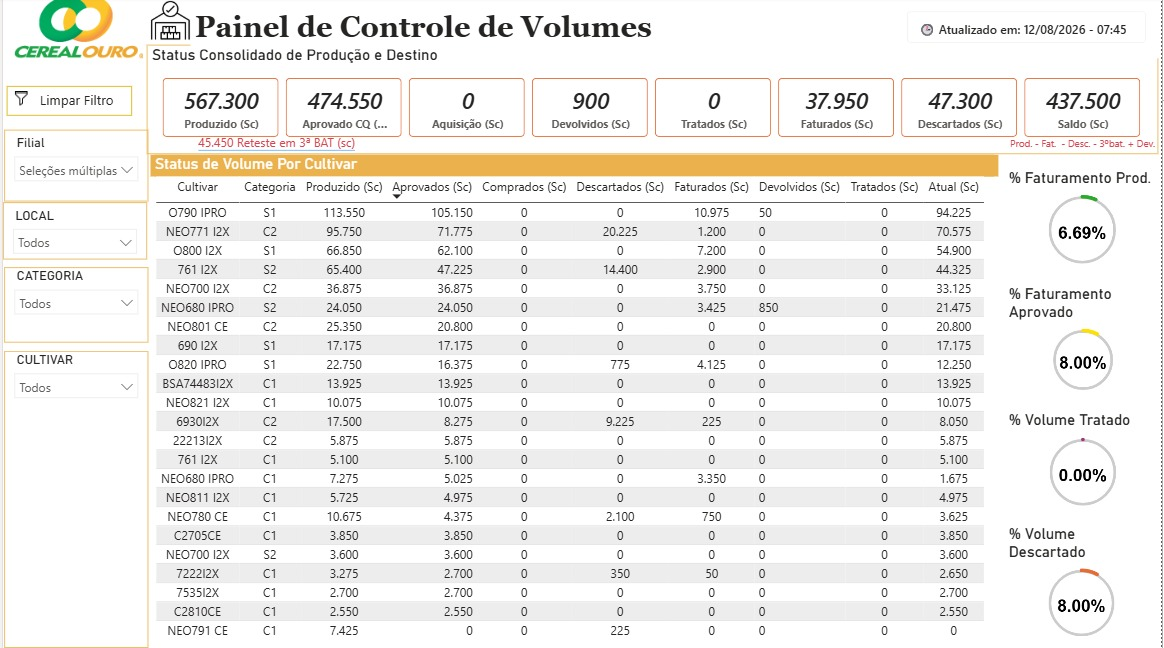
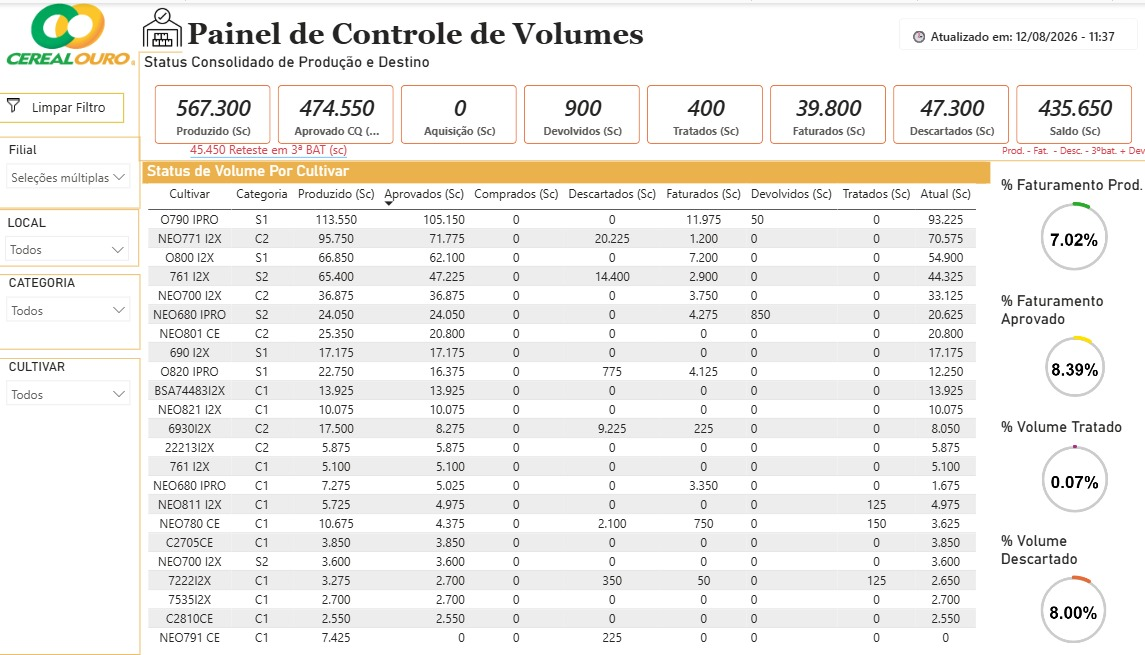
Atualização das imagens do Painel de TV

diff --git a/index.html b/index.html
@@ -1,23 +1,122 @@
-<!doctype html><html lang="pt-BR"><head><meta charset="utf-8"><meta name="viewport" content="width=device-width,initial-scale=1"><title>Painel TV v2</title><style>*{box-sizing:border-box}body{margin:0;font-family:Arial;background:#101418;color:#fff}.panel{max-width:1000px;margin:25px auto;padding:24px;background:#1b2229;border-radius:14px}input,select,button{padding:11px;border-radius:8px;border:1px solid #3a4652}input,select{background:#0f1419;color:#fff}button{background:#2e7d32;color:#fff;cursor:pointer;border:0}.secondary{background:#37474f}.item{border:1px solid #35414d;padding:12px;border-radius:10px;margin:10px 0}.row{display:grid;grid-template-columns:150px 1fr 90px 110px 80px;gap:8px}.actions{display:flex;gap:8px;flex-wrap:wrap;margin-top:15px}.small{color:#b8c2cc;font-size:13px}#viewer{display:none;position:fixed;inset:0;background:#000}#screen,#img,#video{width:100%;height:100%;border:0;display:none}#img{object-fit:contain}.exit{position:fixed;right:10px;top:10px;z-index:5;opacity:.1}@media(max-width:800px){.row{grid-template-columns:1fr 1fr}}</style></head><body>
-<div id="config" class="panel"><h1>📺 Painel de TV — v2</h1><p class="small">O link da TV é fixo. Você altera a programação aqui e salva; a TV atualiza automaticamente.</p><div id="status">Aguardando login...</div>
-<div id="login"><input id="pin" type="password" placeholder="PIN"><button onclick="login()">Entrar</button></div>
-<div id="admin" style="display:none"><div id="items"></div><div class="actions"><button onclick="add()">＋ Adicionar</button><button onclick="save()">💾 Salvar</button><button class="secondary" onclick="load()">↻ Recarregar</button><button class="secondary" onclick="copyTV()">🔗 Copiar link da TV</button><button class="secondary" onclick="openTV()">📺 Abrir TV</button></div></div></div>
-<div id="viewer"><button class="exit" onclick="location.href=location.pathname">⚙</button><iframe id="screen" allow="autoplay;fullscreen"></iframe><img id="img"><video id="video" autoplay muted playsinline></video></div>
-<script src="https://cdn.jsdelivr.net/npm/@supabase/supabase-js@2"></script><script>
-const URL_SB="https://wbejpcbuktfwprlxqjth.supabase.co",KEY="sb_publishable_5xajQWM2gMkKPLBLvKN2Hw_uauZ1pBm",PIN="Luc@s1210";let db,items=[],i=0,timer;
-const ok=()=>!URL_SB.startsWith("COLE_")&&!KEY.startsWith("COLE_");const stat=x=>document.getElementById("status").textContent=x;
-function login(){if(document.getElementById("pin").value!==PIN)return alert("PIN incorreto");document.getElementById("login").style.display="none";document.getElementById("admin").style.display="block";load()}
-function add(x={type:"url",name:"Novo item",url:"",seconds:30,active:true}){items.push(x);render()}
-function esc(x){return String(x||"").replace(/&/g,"&amp;").replace(/"/g,"&quot;").replace(/</g,"&lt;")}
-function render(){let itemsBox=document.getElementById("items");itemsBox.innerHTML="";items.forEach((x,n)=>{let d=document.createElement("div");d.className="item";d.innerHTML=`<div class="row"><input value="${esc(x.name)}" onchange="items[${n}].name=this.value" placeholder="Nome"><input value="${esc(x.url)}" onchange="items[${n}].url=this.value" placeholder="URL"><input type="number" min="1" value="${x.seconds||30}" onchange="items[${n}].seconds=+this.value"><select onchange="items[${n}].type=this.value"><option value="url" ${x.type=="url"?"selected":""}>Dashboard</option><option value="image" ${x.type=="image"?"selected":""}>Imagem</option><option value="video" ${x.type=="video"?"selected":""}>Vídeo</option></select><button onclick="items.splice(${n},1);render()">Excluir</button></div><p class="small">Item ${n+1} • ${x.seconds||30}s</p><button class="secondary" onclick="move(${n},-1)">↑</button> <button class="secondary" onclick="move(${n},1)">↓</button> <button class="secondary" onclick="items[${n}].active=items[${n}].active===false;render()">Ativar/Desativar</button>`;itemsBox.appendChild(d)})}
-function move(n,d){let j=n+d;if(j<0||j>=items.length)return;[items[n],items[j]]=[items[j],items[n]];render()}
-async function load(){if(!ok())return stat("⚠ Preencha URL e KEY do Supabase no código.");db=db||supabase.createClient(URL_SB,KEY);let r=await db.from("tv_playlist").select("items,updated_at").eq("id",1).maybeSingle();if(r.error)return stat(r.error.message);items=r.data?.items||[];render();stat("✅ Carregado: "+(r.data?.updated_at||""))}
-async function save(){if(!ok())return alert("Configure o Supabase.");let r=await db.from("tv_playlist").upsert({id:1,items,updated_at:new Date().toISOString()});if(r.error)alert(r.error.message);else stat("✅ Salvo. A TV atualizará em até 30 segundos.")}
-function copyTV(){navigator.clipboard.writeText(location.href.split("?")[0]+"?tv=1");alert("Link fixo copiado!")}
-function openTV(){open(location.href.split("?")[0]+"?tv=1","_blank")}
-async function start(){if(!ok())return;db=supabase.createClient(URL_SB,KEY);document.getElementById("config").style.display="none";document.getElementById("viewer").style.display="block";await refresh();setInterval(refresh,30000)}
-async function refresh(){let r=await db.from("tv_playlist").select("items").eq("id",1).maybeSingle();if(r.data){let s=JSON.stringify(r.data.items||[]);if(s!==JSON.stringify(items)){items=r.data.items||[];i=0;show()}else if(!timer)show()}}
-function show(){clearTimeout(timer);let a=items.filter(x=>x.active!==false&&x.url);if(!a.length)return;if(i>=a.length)i=0;let x=a[i];let screen=document.getElementById("screen"),img=document.getElementById("img"),video=document.getElementById("video");screen.style.display=img.style.display=video.style.display="none";if(x.type=="image"){img.src=x.url;img.style.display="block"}else if(x.type=="video"){video.src=x.url;video.style.display="block";video.play().catch(()=>{})}else{screen.src=x.url;screen.style.display="block"}timer=setTimeout(()=>{i=(i+1)%a.length;show()},Math.max(1,x.seconds||30)*1000)}
-if(ok())stat("Ready / Digite o PIN");
-render();if(new URLSearchParams(location.search).get("tv")=="1")start();
+<!doctype html>
+
+<html lang="pt-BR"> <head> <meta charset="utf-8"> <meta name="viewport" content="width=device-width,initial-scale=1"> <title>Painel TV v2</title>
+
+<style> * { box-sizing: border-box; } body { margin: 0; font-family: Arial, sans-serif; background: #101418; color: #fff; } .panel { max-width: 1000px; margin: 25px auto; padding: 24px; background: #1b2229; border-radius: 14px; } input, select, button { padding: 11px; border-radius: 8px; border: 1px solid #3a4652; } input, select { background: #0f1419; color: #fff; width: 100%; } button { background: #2e7d32; color: #fff; cursor: pointer; border: 0; } button:hover { opacity: .9; } .secondary { background: #37474f; } .item { border: 1px solid #35414d; padding: 12px; border-radius: 10px; margin: 10px 0; } .row { display: grid; grid-template-columns: 150px 1fr 90px 110px 80px; gap: 8px; } .actions { display: flex; gap: 8px; flex-wrap: wrap; margin-top: 15px; } .small { color: #b8c2cc; font-size: 13px; } .status { margin: 15px 0; padding: 10px; border-radius: 8px; background: #0f1419; } #viewer { display: none; position: fixed; inset: 0; background: #000; } #screen, #img, #video { width: 100%; height: 100%; border: 0; display: none; } #img { object-fit: contain; } #video { object-fit: contain; background: #000; } .exit { position: fixed; right: 10px; top: 10px; z-index: 5; opacity: .1; } .exit:hover { opacity: 1; } .tv-info { position: fixed; bottom: 10px; left: 10px; z-index: 10; color: rgba(255,255,255,.3); font-size: 11px; } @media (max-width: 800px) { .row { grid-template-columns: 1fr 1fr; } } @media (max-width: 500px) { .panel { margin: 10px; padding: 15px; } .row { grid-template-columns: 1fr; } .actions button { width: 100%; } } </style>
+
+</head>
+
+<body>
+
+<!-- PAINEL DE CONFIGURAÇÃO -->
+
+<div id="config" class="panel">
+
+<h1>📺 Painel de TV — v2</h1>
+
+<p class="small">
+    O link da TV é fixo. Você altera a programação aqui e salva.
+    A TV consulta automaticamente as alterações.
+</p>
+
+<div id="status" class="status">
+    Aguardando login...
+</div>
+
+<!-- LOGIN -->
+<div id="login">
+
+    <input
+        id="pin"
+        type="password"
+        placeholder="Digite o PIN"
+        onkeydown="if(event.key === 'Enter') login()"
+    >
+
+    <br><br>
+
+    <button onclick="login()">
+        🔐 Entrar
+    </button>
+
+</div>
+
+<!-- ADMIN -->
+<div id="admin" style="display:none">
+
+    <h2>Programação</h2>
+
+    <div id="items"></div>
+
+    <div class="actions">
+
+        <button onclick="add()">
+            ＋ Adicionar
+        </button>
+
+        <button onclick="save()">
+            💾 Salvar
+        </button>
+
+        <button class="secondary" onclick="load()">
+            ↻ Recarregar
+        </button>
+
+        <button class="secondary" onclick="copyTV()">
+            🔗 Copiar link da TV
+        </button>
+
+        <button class="secondary" onclick="openTV()">
+            📺 Abrir TV
+        </button>
+
+    </div>
+
+</div>
+
+</div>
+
+<!-- VISUALIZAÇÃO DA TV -->
+
+<div id="viewer">
+
+<button
+    class="exit"
+    onclick="location.href=location.pathname"
+    title="Voltar para o painel"
+>
+    ⚙
+</button>
+
+<iframe
+    id="screen"
+    allow="autoplay; fullscreen"
+    allowfullscreen
+></iframe>
+
+<img
+    id="img"
+    alt="Imagem da programação"
+>
+
+<video
+    id="video"
+    autoplay
+    muted
+    playsinline
+></video>
+
+<div class="tv-info">
+    TV ONLINE
+</div>
+
+</div>
+
+<!-- SUPABASE -->
+
+<script src="https://cdn.jsdelivr.net/npm/@supabase/supabase-js@2"></script>
+
+<script> /* ========================================================= CONFIGURAÇÃO ========================================================= */ const URL_SB = "https://wbejpcbuktfwprlxqjth.supabase.co"; const KEY = "sb_publishable_5xajQWM2gMkKPLBLvKN2Hw_uauZ1pBm"; const PIN = "Luc@s1210"; /* ========================================================= VARIÁVEIS ========================================================= */ let db = null; let items = []; let i = 0; let timer = null; let refreshTimer = null; /* ========================================================= VERIFICA SUPABASE ========================================================= */ function ok() { return ( URL_SB && KEY && !URL_SB.startsWith("COLE_") && !KEY.startsWith("COLE_") ); } /* ========================================================= STATUS ========================================================= */ function stat(text) { document.getElementById("status").textContent = text; } /* ========================================================= LOGIN ========================================================= */ function login() { const pin = document.getElementById("pin").value.trim(); if (pin !== PIN) { alert("PIN incorreto."); return; } document.getElementById("login").style.display = "none"; document.getElementById("admin").style.display = "block"; stat("Conectando ao banco..."); load(); } /* ========================================================= ADICIONAR ITEM ========================================================= */ function add(item = null) { if (!item) { item = { type: "url", name: "Novo item", url: "", seconds: 30, active: true }; } items.push(item); render(); } /* ========================================================= ESCAPE HTML ========================================================= */ function esc(value) { return String(value ?? "") .replace(/&/g, "&amp;") .replace(/"/g, "&quot;") .replace(/</g, "&lt;") .replace(/>/g, "&gt;"); } /* ========================================================= RENDERIZA OS ITENS ========================================================= */ function render() { const itemsBox = document.getElementById("items"); itemsBox.innerHTML = ""; if (!items.length) { itemsBox.innerHTML = ` <div class="item"> <div class="small"> Nenhum item cadastrado. Clique em "＋ Adicionar". </div> </div> `; return; } items.forEach((x, n) => { const d = document.createElement("div"); d.className = "item"; const ativo = x.active !== false; d.innerHTML = ` <div class="row"> <input value="${esc(x.name)}" onchange="items[${n}].name=this.value" placeholder="Nome" > <input value="${esc(x.url)}" onchange="items[${n}].url=this.value" placeholder="URL" > <input type="number" min="1" value="${Number(x.seconds) || 30}" onchange="items[${n}].seconds=Math.max(1, Number(this.value) || 30)" title="Tempo em segundos" > <select onchange="items[${n}].type=this.value" > <option value="url" ${x.type === "url" ? "selected" : ""} > Dashboard </option> <option value="image" ${x.type === "image" ? "selected" : ""} > Imagem </option> <option value="video" ${x.type === "video" ? "selected" : ""} > Vídeo </option> </select> <button onclick="removeItem(${n})" > Excluir </button> </div> <p class="small"> Item ${n + 1} • ${Number(x.seconds) || 30}s • ${ativo ? "ATIVO" : "DESATIVADO"} </p> <button class="secondary" onclick="move(${n}, -1)" > ↑ </button> <button class="secondary" onclick="move(${n}, 1)" > ↓ </button> <button class="secondary" onclick="toggleItem(${n})" > ${ativo ? "Desativar" : "Ativar"} </button> `; itemsBox.appendChild(d); }); } /* ========================================================= EXCLUIR ITEM ========================================================= */ function removeItem(n) { if (!confirm("Excluir este item?")) { return; } items.splice(n, 1); render(); } /* ========================================================= ATIVAR / DESATIVAR ========================================================= */ function toggleItem(n) { items[n].active = items[n].active === false; render(); } /* ========================================================= MOVER ITEM ========================================================= */ function move(n, direction) { const newPosition = n + direction; if ( newPosition < 0 || newPosition >= items.length ) { return; } [ items[n], items[newPosition] ] = [ items[newPosition], items[n] ]; render(); } /* ========================================================= CONEXÃO SUPABASE ========================================================= */ function connectDB() { if (!ok()) { throw new Error( "URL ou chave do Supabase não configurada." ); } if (!db) { db = supabase.createClient( URL_SB, KEY ); } return db; } /* ========================================================= CARREGAR PLAYLIST ========================================================= */ async function load() { try { connectDB(); stat("Carregando playlist..."); const result = await db .from("tv_playlist") .select("items, updated_at") .eq("id", 1) .maybeSingle(); if (result.error) { stat( "❌ Erro: " + result.error.message ); return; } items = result.data?.items || []; render(); stat( "✅ Playlist carregada. " + "Última atualização: " + ( result.data?.updated_at ? new Date( result.data.updated_at ).toLocaleString("pt-BR") : "Nunca" ) ); } catch (error) { stat( "❌ " + error.message ); } } /* ========================================================= SALVAR PLAYLIST ========================================================= */ async function save() { try { connectDB(); const cleanItems = items.map(x => ({ type: x.type || "url", name: String(x.name || ""), url: String(x.url || ""), seconds: Math.max( 1, Number(x.seconds) || 30 ), active: x.active !== false })); const result = await db .from("tv_playlist") .upsert({ id: 1, items: cleanItems, updated_at: new Date().toISOString() }); if (result.error) { alert( "Erro ao salvar:\n\n" + result.error.message ); return; } items = cleanItems; render(); stat( "✅ Salvo com sucesso! " + "A TV verificará a atualização automaticamente." ); } catch (error) { alert( "Erro:\n\n" + error.message ); } } /* ========================================================= LINK FIXO DA TV ========================================================= */ function tvLink() { const base = window.location.origin + window.location.pathname; return base + "?tv=1"; } /* ========================================================= COPIAR LINK DA TV ========================================================= */ async function copyTV() { const link = tvLink(); try { await navigator.clipboard.writeText(link); alert( "✅ Link fixo da TV copiado!\n\n" + link ); } catch (error) { prompt( "Copie o link da TV:", link ); } } /* ========================================================= ABRIR TV ========================================================= */ function openTV() { window.open( tvLink(), "_blank" ); } /* ========================================================= INICIAR MODO TV ========================================================= */ async function startTV() { try { connectDB(); document.getElementById( "config" ).style.display = "none"; document.getElementById( "viewer" ).style.display = "block"; await refreshTV(); clearInterval(refreshTimer); refreshTimer = setInterval( refreshTV, 30000 ); } catch (error) { console.error(error); } } /* ========================================================= ATUALIZAÇÃO DA TV ========================================================= */ async function refreshTV() { try { const result = await db .from("tv_playlist") .select("items, updated_at") .eq("id", 1) .maybeSingle(); if (result.error) { console.error( "Erro ao atualizar TV:", result.error.message ); return; } if (!result.data) { return; } const newItems = result.data.items || []; const oldJSON = JSON.stringify(items); const newJSON = JSON.stringify(newItems); if (oldJSON !== newJSON) { items = newItems; i = 0; show(); return; } if (!timer) { show(); } } catch (error) { console.error( "Erro:", error ); } } /* ========================================================= MOSTRAR ITEM ========================================================= */ function show() { clearTimeout(timer); const activeItems = items.filter( x => x.active !== false && x.url ); if (!activeItems.length) { document.getElementById("screen").style.display = "none"; document.getElementById("img").style.display = "none"; document.getElementById("video").style.display = "none"; return; } if (i >= activeItems.length) { i = 0; } const item = activeItems[i]; const screen = document.getElementById("screen"); const img = document.getElementById("img"); const video = document.getElementById("video"); /* Esconde tudo */ screen.style.display = "none"; img.style.display = "none"; video.style.display = "none"; /* ===================================================== IMAGEM ===================================================== */ if (item.type === "image") { img.src = item.url; img.style.display = "block"; img.onerror = () => { console.error( "Erro ao carregar imagem:", item.url ); }; } /* ===================================================== VÍDEO ===================================================== */ else if (item.type === "video") { video.src = item.url; video.style.display = "block"; video.currentTime = 0; video.play().catch( error => console.log( "Autoplay bloqueado:", error ) ); } /* ===================================================== DASHBOARD / URL ===================================================== */ else { screen.src = item.url; screen.style.display = "block"; } /* ===================================================== PRÓXIMO ITEM ===================================================== */ const seconds = Math.max( 1, Number(item.seconds) || 30 ); timer = setTimeout( () => { i = (i + 1) % activeItems.length; show(); }, seconds * 1000 ); } /* ========================================================= INICIALIZAÇÃO ========================================================= */ render(); if (ok()) { stat( "✅ Sistema pronto. Digite o PIN." ); } else { stat( "⚠ Configure o Supabase." ); } /* ========================================================= DETECTA MODO TV ========================================================= */ const params = new URLSearchParams( window.location.search ); if ( params.get("tv") === "1" ) { startTV(); } </script>
+
+</body> </html>
 </script></body></html>
